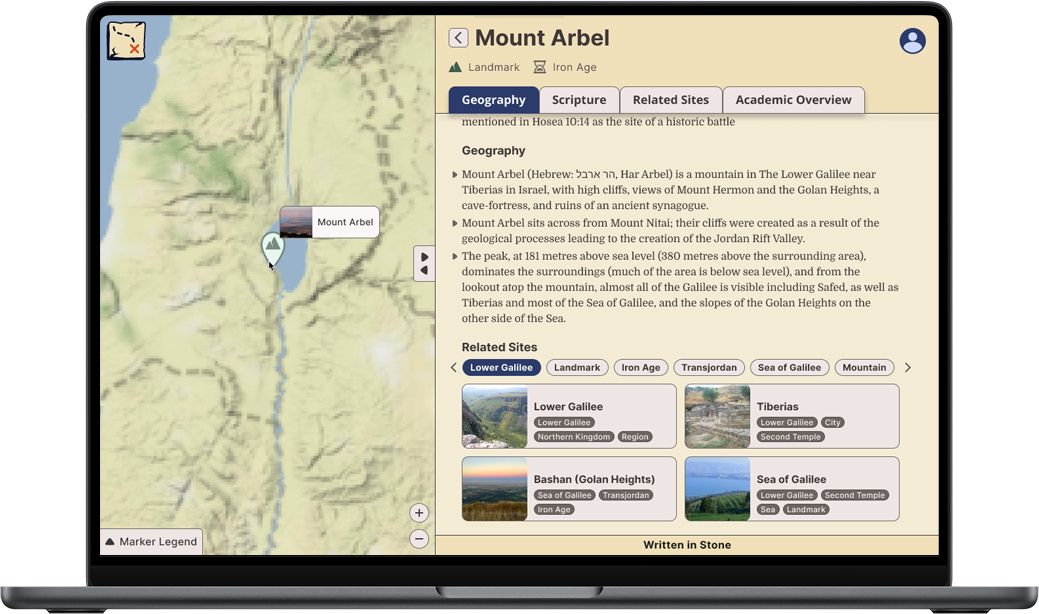
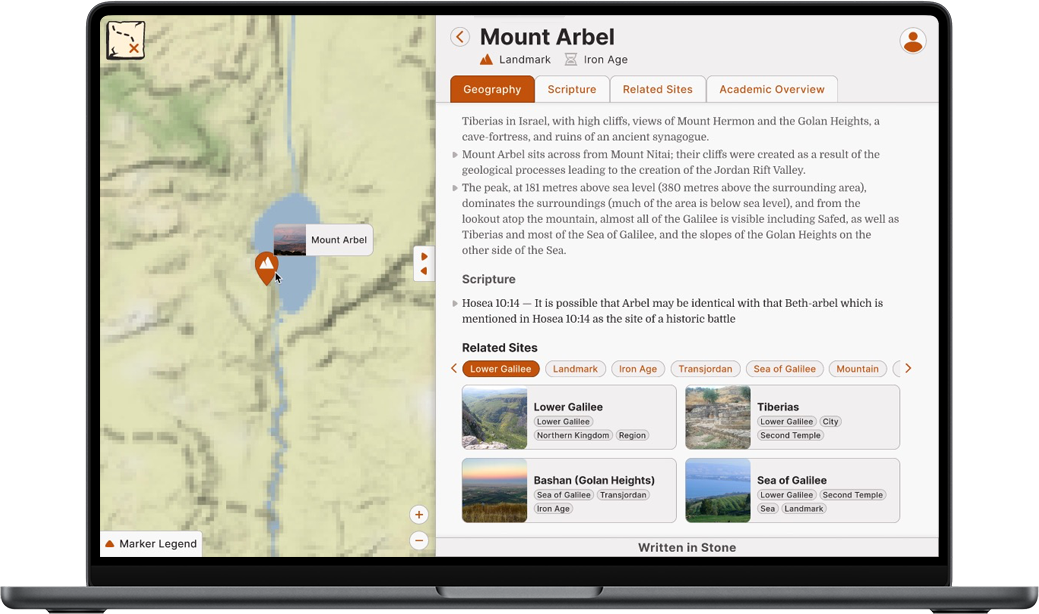
updated endnotes

diff --git a/src/views/ResultsView.vue b/src/views/ResultsView.vue
@@ -65,9 +65,12 @@
                 <svg id="a" xmlns="http://www.w3.org/2000/svg" viewBox="0 0 24 24"><polygon points=".00006 12 1.42859 10.57141 1.42865 10.57141 10.00006 2 11.42865 3.42859 3.95776 10.89948 24 10.89948 24 12.89948 3.75671 12.89948 11.42865 20.57141 10.00006 22 1.42865 13.42859 1.42859 13.42865 0 12.00006 .00006 12"/></svg>
                 Previous
               </button>
-              <button class="forwardBtn" @click="nextContent" :disabled="currentIndex === content.length - 1">Next 
+              <button class="forwardBtn" @click="nextContent" v-if="currentIndex !== content.length - 1" :disabled="currentIndex === content.length - 1">Next 
                 <svg id="a" xmlns="http://www.w3.org/2000/svg" viewBox="0 0 24 24"><polygon points="23.99994 12 22.57141 10.57141 22.57135 10.57141 13.99994 2 12.57135 3.42859 20.04224 10.89948 0 10.89948 0 12.89948 20.24329 12.89948 12.57135 20.57141 13.99994 22 22.57135 13.42859 22.57141 13.42865 24 12.00006 23.99994 12"/></svg>
               </button>
+              <router-link v-if="currentIndex === content.length - 1" class="forwardBtn" to="/endnotes" >Endnotes 
+                <svg id="a" xmlns="http://www.w3.org/2000/svg" viewBox="0 0 24 24"><polygon points="23.99994 12 22.57141 10.57141 22.57135 10.57141 13.99994 2 12.57135 3.42859 20.04224 10.89948 0 10.89948 0 12.89948 20.24329 12.89948 12.57135 20.57141 13.99994 22 22.57135 13.42859 22.57141 13.42865 24 12.00006 23.99994 12"/></svg>
+              </router-link>
             </div>
           </div>
         </div>
@@ -137,7 +140,7 @@ export default {
           text: [
             { text: 'This brand was carefully crafted to combine a clean, modern aesthetic with historical roots. The chosen colors draw inspiration from the landscapes of the ancient near east, creating a sense of connection to the land. The typography, components, and patterns work harmoniously to create a sophisticated and user-friendly interface, resulting in a thoroughly tested and scalable design system centered around the user\'s needs.'}
           ],
-          imgA: require('@/assets/wis-brand.png'),
+          imgA: require('@/assets/jones_davy_writtenInStone.png'),
           imgCaption: 'Figma Design System as of July 21, 2023',
           FigPro: 'https://www.figma.com/embed?embed_host=share&url=https%3A%2F%2Fwww.figma.com%2Fproto%2FxLh7aq2HW1eUzrIFbNJlph%2FWIS_final%3Fpage-id%3D1%253A9%26type%3Ddesign%26node-id%3D121-782%26viewport%3D419%252C-141%252C0.15%26t%3D8wJbf7mbPMbK9qR3-1%26scaling%3Dscale-down-width%26starting-point-node-id%3D121%253A782%26mode%3Ddesign&hide-ui=1',
           FigCaption: 'Figma Design System as of July 21, 2023',
@@ -159,10 +162,10 @@ export default {
           textEnd: [
             { text: 'By continuously refining my design based on real-world insights and user needs, I strive to create a user-centered design system that stays ahead of future demands.'}
           ],
-          FigPro: 'https://www.figma.com/embed?embed_host=share&url=https%3A%2F%2Fwww.figma.com%2Fproto%2FxLh7aq2HW1eUzrIFbNJlph%2FWIS_final%3Fpage-id%3D0%253A1%26type%3Ddesign%26node-id%3D95-981%26viewport%3D39%252C434%252C0.76%26t%3DPavinLIp9dYFSqKb-1%26scaling%3Dscale-down-width%26starting-point-node-id%3D95%253A981%26mode%3Ddesign&hide-ui=1',
+          FigPro: 'https://www.figma.com/embed?embed_host=share&url=https%3A%2F%2Fwww.figma.com%2Fproto%2FxLh7aq2HW1eUzrIFbNJlph%2FWIS_final%3Fpage-id%3D0%253A1%26type%3Ddesign%26node-id%3D225-2746%26viewport%3D-775%252C772%252C0.46%26t%3DAL3n8atHjE7glDI3-1%26scaling%3Dscale-down-width%26starting-point-node-id%3D225%253A2746%26mode%3Ddesign&hide-ui=1',
           FigCaption: 'Figma Prototype as of July 21, 2023',
           links: [
-            { link: 'https://www.figma.com/proto/xLh7aq2HW1eUzrIFbNJlph/WIS_final?page-id=0%3A1&type=design&node-id=95-981&viewport=39%2C434%2C0.76&t=PavinLIp9dYFSqKb-1&scaling=scale-down&starting-point-node-id=95%3A981&mode=design', text: 'Figma Prototype', style: 'list-item' },
+            { link: 'https://www.figma.com/proto/xLh7aq2HW1eUzrIFbNJlph/WIS_final?page-id=0%3A1&type=design&node-id=225-2746&viewport=-775%2C772%2C0.46&t=AL3n8atHjE7glDI3-1&scaling=scale-down&starting-point-node-id=225%3A2746&mode=design', text: 'Figma Prototype', style: 'list-item' },
           ],
         },
         { 

diff --git a/src/views/EndnotesView.vue b/src/views/EndnotesView.vue
@@ -1,5 +1,5 @@
 <template>
-  <div class="citations">
+  <div class="endnotes">
     <header class="header-internal">
       
       <div class="splash-content">
@@ -8,7 +8,7 @@
     </header>
     <div class="page">
       <div class="page-h">
-        <h2>Citations</h2>
+        <h2>Endnotes</h2>
         <div class="arrowBtns arrowBtnsTop">
           <button class="previousBtn" @click="previousContent" :disabled="currentIndex === 0">
             <svg id="a" xmlns="http://www.w3.org/2000/svg" viewBox="0 0 24 24"><polygon points=".00006 12 1.42859 10.57141 1.42865 10.57141 10.00006 2 11.42865 3.42859 3.95776 10.89948 24 10.89948 24 12.89948 3.75671 12.89948 11.42865 20.57141 10.00006 22 1.42865 13.42859 1.42859 13.42865 0 12.00006 .00006 12"/></svg>
@@ -42,9 +42,9 @@
               </div>             
             </div>
             <div class="arrowBtns pageBtns">
-              <router-link v-if="currentIndex === 0" class="previousBtn" to="/process" >
+              <router-link v-if="currentIndex === 0" class="previousBtn" to="/results" >
                 <svg id="a" xmlns="http://www.w3.org/2000/svg" viewBox="0 0 24 24"><polygon points=".00006 12 1.42859 10.57141 1.42865 10.57141 10.00006 2 11.42865 3.42859 3.95776 10.89948 24 10.89948 24 12.89948 3.75671 12.89948 11.42865 20.57141 10.00006 22 1.42865 13.42859 1.42859 13.42865 0 12.00006 .00006 12"/></svg>
-                Process 
+                Results 
               </router-link>
               <button class="previousBtn" @click="previousContent"  v-if="currentIndex !== 0" :disabled="currentIndex === 0">
                 <svg id="a" xmlns="http://www.w3.org/2000/svg" viewBox="0 0 24 24"><polygon points=".00006 12 1.42859 10.57141 1.42865 10.57141 10.00006 2 11.42865 3.42859 3.95776 10.89948 24 10.89948 24 12.89948 3.75671 12.89948 11.42865 20.57141 10.00006 22 1.42865 13.42859 1.42859 13.42865 0 12.00006 .00006 12"/></svg>
@@ -67,13 +67,13 @@
 import WisLogo from '@/components/WisLogo.vue';
 
 export default {
-  name: 'CitationsView',
+  name: 'EndnotesView',
   data() {
     return {
       currentIndex: 0,
       content: [
         { 
-          title: 'Citations',
+          title: 'Endnotes',
           list: [
             { 
               item: 'Bibles, Church Bible-NIV, 2011.', 
@@ -117,7 +117,8 @@ export default {
             },
           ],
           links: [
-            { link: 'https://docs.google.com/document/d/1RfCwyeN3hs05BPPx6-4XxTa1fAfDtXdN5jTv0Kq6ApA/edit?usp=sharing', text: 'Full Bibliography' }
+            { link: 'https://docs.google.com/document/d/1RfCwyeN3hs05BPPx6-4XxTa1fAfDtXdN5jTv0Kq6ApA/edit?usp=sharing', text: 'Full Bibliography' },
+            { link: 'https://blog.davyjones.me/', text: 'Progress Platform' }
           ]
         },
       ],

diff --git a/src/styles/pages.scss b/src/styles/pages.scss
@@ -41,6 +41,18 @@
       } & .content-text {
         margin: 24px  80px 24px;
         max-width: 600px;
+        & ul {
+          margin: 0 0 0 -16px;
+          padding: 0;
+          & li {
+          font-size: 16px;
+          font-weight: 500;
+          list-style: none;
+          font-family: 'Inter', sans-serif;
+            margin: 0 0 8px 16px;
+
+          }
+        }
         
         & .subhead {
           font-weight: 800;
@@ -161,8 +173,34 @@
   }
 }
 .content-links-wrapper {
-  border-top: 1px solid $tan;
-  margin-top: 38px;
+  border-top: 1px solid $charcoal;
+  margin-top: 42px;
+  & ul {
+    display: flex;
+    flex-direction: column;
+    flex-wrap: wrap;
+    justify-content: space-between;
+    margin: 0 0 0 -16px;
+    padding: 0;
+    & li {
+      list-style: none;
+      margin: 0 0 8px 16px;
+      & a {
+        color: $plum;
+        font-family: 'Inter', sans-serif;
+        font-size: 14px;
+        font-style: normal;
+        text-decoration: underline;
+        font-weight: 600;
+        line-height: normal;
+        letter-spacing: 0.28px;
+        &:hover {
+          color: $charcoal;
+          text-decoration: underline;
+        }
+      }
+    }
+  }
 }
 .responsive-iframe {
   border: 1px solid $charcoal;

diff --git a/src/App.vue b/src/App.vue
@@ -5,7 +5,7 @@
     <router-link to="/about" @click="toggleMenu">About</router-link>
     <router-link to="/process" @click="toggleMenu">Process</router-link>
     <router-link to="/results" @click="toggleMenu">Results</router-link>
-    <router-link to="/citations" @click="toggleMenu">Citations</router-link>
+    <router-link to="/endnotes" @click="toggleMenu">Endnotes</router-link>
     <div class="teaserBtn-wrap">
       <button class="teaserBtn" @click="toggleTeaser" :class="{'router-link-exact-active': isTeaserOpen}">
         <svg v-if="!isTeaserOpen" id="a" xmlns="http://www.w3.org/2000/svg" viewBox="0 0 24 24"><path d="m19.76445,10.26795L7.3315,3.08978c-1.33333-.7698-3,.19245-3,1.73205v14.35634c0,1.5396,1.66667,2.50185,3,1.73205l12.43296-7.17817c1.33333-.7698,1.33333-2.6943,0-3.4641Z"/></svg>

diff --git a/src/router/index.js b/src/router/index.js
@@ -23,9 +23,9 @@ const routes = [
     component: () => import(/* webpackChunkName: "about" */ '../views/ProcessView.vue')
   },
   {
-    path: '/citations',
-    name: 'citations',
-    component: () => import(/* webpackChunkName: "about" */ '../views/CitationsView.vue')
+    path: '/endnotes',
+    name: 'endnotes',
+    component: () => import(/* webpackChunkName: "about" */ '../views/EndnotesView.vue')
   }
 ]
 

diff --git a/src/views/HomeView.vue b/src/views/HomeView.vue
@@ -24,7 +24,7 @@
     <NavCard 
       title="Results"
       paragraph="The final product, including the design system, the Figma Prototype and a teaser video."
-      image="wis-brand.png"
+      image="jones_davy_writtenInStone.png"
       link="/results"
     />
   </div>

diff --git a/src/styles/colors.scss b/src/styles/colors.scss
@@ -1,4 +1,4 @@
-$tan: #DFD6BF;
-$vanilla: #F5F0E1;
-$plum: #5A6182;
-$charcoal: #33353F;
+$tan: #fff2d9;
+$vanilla: #fff9ed;
+$plum: #c2510c;
+$charcoal: #292626;
